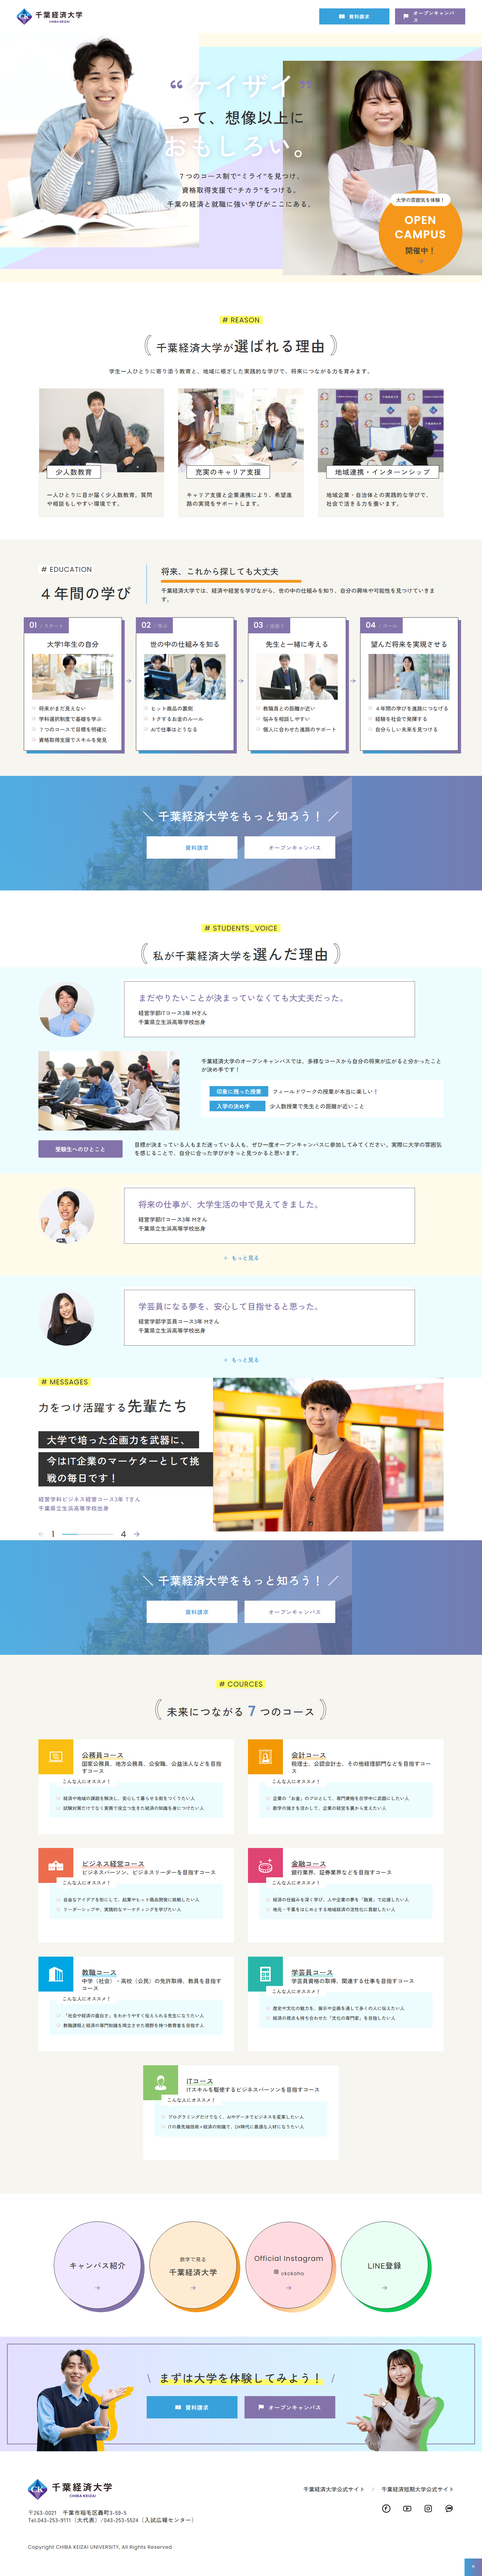
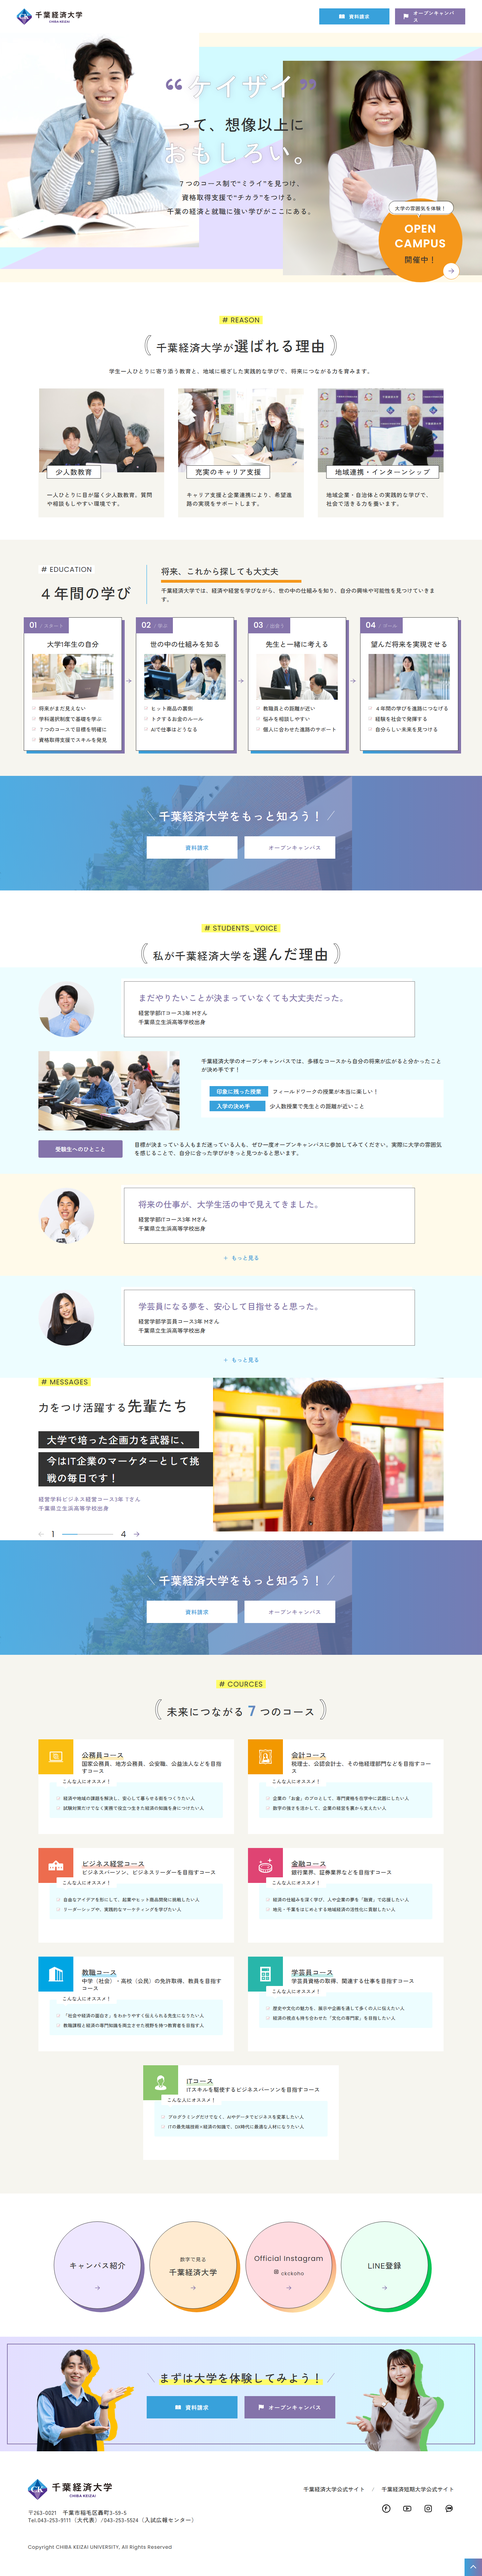
Match V3 MV and CTA chrome to Figma unions and type sizes.
Open Campus uses the exported speech-bubble kicker and 48px arrow disc, quotes scale to the reference, and CTA slashes come from the Figma vectors instead of text glyphs.

Changed region(s): [[0.3739, 0.0312, 0.6232, 0.0936], [0.8101, 0.0624, 0.9659, 0.1248], [0.3428, 0.0312, 0.3739, 0.0624]]

diff --git a/experiments/ref001-v3/implementation/styles/sections.css b/experiments/ref001-v3/implementation/styles/sections.css
@@ -103,14 +103,17 @@
 
 .v3-mv__quotes {
   color: var(--v3-purple);
-  font-size: 88px;
+  font-size: 119px;
   line-height: 1;
-  vertical-align: -0.18em;
+  font-weight: 500;
+  vertical-align: -0.28em;
 }
 
 .v3-mv__word {
   display: inline;
   color: #fff;
+  -webkit-text-stroke: 1px #333;
+  paint-order: stroke fill;
   text-shadow: 0 0 18px rgba(132, 115, 170, 0.35);
   font-size: 77px;
   line-height: 1.15;
@@ -120,6 +123,8 @@
 .v3-mv__end {
   display: block;
   color: #fff;
+  -webkit-text-stroke: 1px #333;
+  paint-order: stroke fill;
   text-shadow: 0 0 18px rgba(132, 115, 170, 0.35);
   font-size: 71px;
   line-height: 1.15;
@@ -144,7 +149,7 @@
 .v3-mv__oc {
   position: absolute;
   right: 56px;
-  bottom: 24px;
+  bottom: 0;
   width: 240px;
   height: 240px;
   border-radius: 50%;
@@ -154,30 +159,54 @@
   display: flex;
   flex-direction: column;
   align-items: center;
-  justify-content: flex-end;
-  padding: 0 12px 28px;
+  justify-content: center;
+  padding: 36px 12px 20px;
   text-align: center;
   z-index: 2;
 }
 
 .v3-mv__oc-kicker {
   position: absolute;
-  top: 10px;
+  top: 9px;
   left: 50%;
   transform: translateX(-50%);
-  background: #fff;
-  color: var(--v3-text);
-  border: 0;
-  border-radius: 999px;
-  font-size: 14px;
-  padding: 8px 16px;
+  width: 187px;
+  height: 47px;
   margin: 0;
+  border: 0;
+  background: transparent;
+  padding: 0;
+}
+
+.v3-mv__oc-kicker-shape {
+  position: absolute;
+  inset: 0;
+  width: 187px;
+  height: 47px;
+  max-width: none;
+}
+
+.v3-mv__oc-kicker-shape--line {
+  left: 2px;
+  top: -2px;
+}
+
+.v3-mv__oc-kicker-text {
+  position: relative;
+  z-index: 1;
+  display: grid;
+  place-items: center;
+  height: 38px;
+  color: var(--v3-text);
+  font-size: 14px;
+  letter-spacing: 0.05em;
   white-space: nowrap;
 }
 
 .v3-mv__oc-title {
   font-family: var(--v3-font-en);
   font-size: 32px;
+  font-weight: 600;
   line-height: 1.3;
   letter-spacing: 0.05em;
 }
@@ -186,12 +215,26 @@
   color: var(--v3-text);
   font-size: 22px;
   margin-top: 8px;
+  letter-spacing: 0.05em;
+}
+
+.v3-mv__oc-go {
+  position: absolute;
+  right: 8px;
+  bottom: 8px;
+  width: 48px;
+  height: 48px;
+  border-radius: 50%;
+  background: #fff;
+  border: 1px solid var(--v3-orange);
+  display: grid;
+  place-items: center;
 }
 
 .v3-mv__oc-arrow {
   width: 16px;
   height: 16px;
-  margin-top: 8px;
+  margin: 0;
 }
 
 /* Reason — Figma 21378:7999 / 21376:4852 */
@@ -479,10 +522,26 @@
 }
 
 .v3-shared-cta h2 {
+  display: inline-flex;
+  align-items: center;
+  justify-content: center;
+  gap: 12px;
   font-size: 32px;
   font-weight: 500;
-  letter-spacing: 0.06em;
+  letter-spacing: 0.05em;
   margin: 0 0 36px;
+  text-shadow: 0 0 20px var(--v3-purple);
+}
+
+.v3-shared-cta__slash {
+  width: 21px;
+  height: 27px;
+  max-width: none;
+  flex: none;
+}
+
+.v3-shared-cta__slash--end {
+  transform: scaleX(-1);
 }
 
 .v3-shared-cta__actions {
@@ -1043,17 +1102,14 @@
 }
 
 .v3-cta-value__slash {
-  width: 18px;
-  height: 26px;
-  border-left: 2px solid var(--v3-purple);
-  transform: rotate(-18deg);
+  width: 21px;
+  height: 27px;
+  max-width: none;
   flex: none;
 }
 
 .v3-cta-value__slash--end {
-  transform: rotate(18deg);
-  border-left: 0;
-  border-right: 2px solid var(--v3-purple);
+  transform: scaleX(-1);
 }
 
 .v3-cta-value__actions {
@@ -1153,10 +1209,18 @@
   bottom: 0;
   width: 50px;
   height: 50px;
-  background: linear-gradient(90deg, var(--v3-blue), var(--v3-purple));
+  background: linear-gradient(-90deg, var(--v3-purple), var(--v3-blue));
   color: #fff;
   display: grid;
   place-items: center;
-  font-size: 20px;
   text-decoration: none;
+}
+
+.v3-footer__pagetop-icon {
+  width: 12px;
+  height: 12px;
+  border-left: 2px solid #fff;
+  border-top: 2px solid #fff;
+  transform: rotate(45deg);
+  margin-top: 4px;
 }

diff --git a/experiments/ref001-v3/implementation/styles/responsive.css b/experiments/ref001-v3/implementation/styles/responsive.css
@@ -66,8 +66,9 @@
   }
 
   .v3-mv__person {
-    width: 60%;
-    height: 37%;
+    width: 335px;
+    height: 220px;
+    max-width: 90%;
   }
 
   .v3-mv__person--left {
@@ -92,45 +93,59 @@
   }
 
   .v3-mv__quotes {
-    font-size: 48px;
+    font-size: 100px;
   }
 
   .v3-mv__word {
-    font-size: 42px;
+    font-size: 66px;
   }
 
   .v3-mv__end {
-    font-size: 36px;
+    font-size: 60px;
   }
 
   .v3-mv__mid {
-    font-size: 22px;
+    font-size: 32px;
   }
 
   .v3-mv__desc {
-    font-size: 15px;
+    font-size: 14px;
+    line-height: 2;
     width: 100%;
     max-width: none;
   }
 
   .v3-mv__oc {
-    width: 110px;
-    height: 110px;
+    width: 170px;
+    height: 170px;
     right: 16px;
-    bottom: 24px;
+    bottom: 16px;
+    padding: 28px 8px 12px;
   }
 
   .v3-mv__oc-kicker {
-    font-size: 8px;
-    padding: 4px 8px;
+    width: 187px;
+    height: 47px;
+    top: -20px;
+  }
+
+  .v3-mv__oc-kicker-text {
+    font-size: 14px;
   }
 
   .v3-mv__oc-title {
-    font-size: 13px;
+    font-size: 26px;
   }
 
   .v3-mv__oc-status {
-    font-size: 11px;
+    font-size: 16px;
+  }
+
+  .v3-mv__oc-go {
+    width: 36px;
+    height: 36px;
+    right: 8px;
+    bottom: 8px;
   }
 
   .v3-reason {
@@ -222,8 +237,13 @@
   .v3-shared-cta h2 {
     font-size: 24px;
     line-height: 1.3;
-    max-width: 220px;
+    max-width: 280px;
     margin: 0 auto 30px;
+  }
+
+  .v3-shared-cta__slash {
+    width: 16px;
+    height: 20px;
   }
 
   .v3-shared-cta__actions {
@@ -435,8 +455,8 @@
   }
 
   .v3-cta-value__slash {
-    width: 10px;
-    height: 18px;
+    width: 16px;
+    height: 20px;
   }
 
   .v3-cta-value__actions {

diff --git a/experiments/ref001-v3/implementation/sections/main-visual.php b/experiments/ref001-v3/implementation/sections/main-visual.php
@@ -21,9 +21,13 @@ $d = v3_data()['mainVisual'];
     <p class="v3-mv__desc"><?php echo implode('<br>', array_map(static fn ($line) => htmlspecialchars($line, ENT_QUOTES, 'UTF-8'), $d['descriptionLines'])); ?></p>
   </div>
   <a class="v3-mv__oc" href="<?php v3_e(v3_link('open-campus')); ?>" data-link-status="UNRESOLVED" aria-label="オープンキャンパス">
-    <span class="v3-mv__oc-kicker"><?php v3_e($d['ocKicker']); ?></span>
+    <span class="v3-mv__oc-kicker">
+      <img class="v3-mv__oc-kicker-shape v3-mv__oc-kicker-shape--fill" src="assets/mv/oc-kicker-fill.svg" alt="" width="187" height="47">
+      <img class="v3-mv__oc-kicker-shape v3-mv__oc-kicker-shape--line" src="assets/mv/oc-kicker-line.svg" alt="" width="187" height="47">
+      <span class="v3-mv__oc-kicker-text"><?php v3_e($d['ocKicker']); ?></span>
+    </span>
     <b class="v3-mv__oc-title"><?php echo nl2br(htmlspecialchars($d['ocTitle'], ENT_QUOTES, 'UTF-8'), false); ?></b>
     <small class="v3-mv__oc-status"><?php v3_e($d['ocStatus']); ?></small>
-    <?php v3_icon('arrow-right', 'v3-mv__oc-arrow'); ?>
+    <span class="v3-mv__oc-go"><?php v3_icon('arrow-right', 'v3-mv__oc-arrow'); ?></span>
   </a>
 </section>

diff --git a/experiments/ref001-v3/implementation/sections/cta-value.php b/experiments/ref001-v3/implementation/sections/cta-value.php
@@ -6,7 +6,11 @@ $d = v3_data()['ctaValue'];
   <?php v3_picture($d['leftPerson'], 'v3-portrait v3-portrait--left', ''); ?>
   <?php v3_picture($d['rightPerson'], 'v3-portrait v3-portrait--right', ''); ?>
   <div class="v3-cta-value__inner">
-    <h2><span class="v3-cta-value__slash" aria-hidden="true"></span><?php v3_e($d['title']); ?><span class="v3-cta-value__slash v3-cta-value__slash--end" aria-hidden="true"></span></h2>
+    <h2>
+      <img class="v3-cta-value__slash" src="assets/cta/slash-purple.svg" alt="" width="21" height="27" aria-hidden="true">
+      <span><?php v3_e($d['title']); ?></span>
+      <img class="v3-cta-value__slash v3-cta-value__slash--end" src="assets/cta/slash-purple.svg" alt="" width="21" height="27" aria-hidden="true">
+    </h2>
     <div class="v3-cta-value__actions">
       <?php v3_component('cta-button', ['key' => 'document', 'label' => '資料請求', 'icon' => 'document', 'tone' => 'blue']); ?>
       <?php v3_component('cta-button', ['key' => 'open-campus', 'label' => 'オープンキャンパス', 'icon' => 'open-campus', 'tone' => 'purple']); ?>

diff --git a/experiments/ref001-v3/implementation/sections/shared-cta.php b/experiments/ref001-v3/implementation/sections/shared-cta.php
@@ -8,7 +8,11 @@ $figmaSp = $section['figmaSp'] ?? $d['figma']['sp'][0];
   <img class="v3-shared-cta__wash" src="assets/cta/campus-wash.png" alt="" aria-hidden="true" width="1380" height="328">
   <div class="v3-shared-cta__veil" aria-hidden="true"></div>
   <div class="v3-shared-cta__inner">
-    <h2>＼ <?php v3_e($d['title']); ?> ／</h2>
+    <h2>
+      <img class="v3-shared-cta__slash" src="assets/cta/slash-left.svg" alt="" width="21" height="27" aria-hidden="true">
+      <span><?php v3_e($d['title']); ?></span>
+      <img class="v3-shared-cta__slash v3-shared-cta__slash--end" src="assets/cta/slash-left.svg" alt="" width="21" height="27" aria-hidden="true">
+    </h2>
     <div class="v3-shared-cta__actions">
       <?php v3_component('cta-button', ['key' => 'document', 'label' => '資料請求', 'icon' => 'document', 'tone' => 'blue']); ?>
       <?php v3_component('cta-button', ['key' => 'open-campus', 'label' => 'オープンキャンパス', 'icon' => 'open-campus', 'tone' => 'purple']); ?>

diff --git a/experiments/ref001-v3/implementation/data/assets.php b/experiments/ref001-v3/implementation/data/assets.php
@@ -98,6 +98,10 @@ return [
         'cta-campus-wash' => 'assets/cta/campus-wash.png',
         'mv-plane-back' => 'assets/mv/plane-back.svg',
         'mv-plane-front' => 'assets/mv/plane-front.svg',
+        'mv-oc-kicker-fill' => 'assets/mv/oc-kicker-fill.svg',
+        'mv-oc-kicker-line' => 'assets/mv/oc-kicker-line.svg',
+        'cta-slash-left' => 'assets/cta/slash-left.svg',
+        'cta-slash-purple' => 'assets/cta/slash-purple.svg',
     ],
     'icons' => [
         'document' => 'assets/icons/document.svg',

diff --git a/experiments/ref001-v3/implementation/sections/footer.php b/experiments/ref001-v3/implementation/sections/footer.php
@@ -24,5 +24,5 @@ $d = v3_data()['footer'];
     </div>
   </div>
   <div class="v3-footer__copyright"><?php v3_e($d['copyright']); ?></div>
-  <a class="v3-footer__pagetop" href="#top" aria-label="ページ先頭へ">⌃</a>
+  <a class="v3-footer__pagetop" href="#top" aria-label="ページ先頭へ"><span class="v3-footer__pagetop-icon" aria-hidden="true"></span></a>
 </footer>
